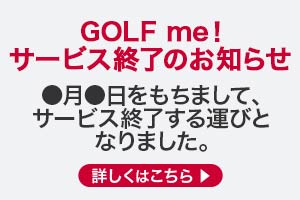
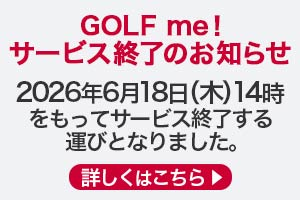
add

Changed region(s): [[0.03, 0.39, 0.96, 0.78], [0.03, 0.06, 0.99, 0.36], [0.21, 0.81, 0.78, 0.96]]

diff --git a/20251212/closeinfo2026/index.html b/20251212/closeinfo2026/index.html
@@ -125,7 +125,7 @@
                      
                     </div></li> 
                      <li><div>
-                         <p class="closeinfo_date">2026年3月4日（水）●時</p>
+                         <p class="closeinfo_date">2026年3月4日（水）14時</p>
                          <p>新規登録及びご契約プランの更新、ドコモの対象料金プラン特典・dカード特典を除くすべてのキャンペーンの受付最終日となります。</p>
                          <p>3月5日（木）以降の途中解約には違約金は発生いたしません。</p>
                  
@@ -142,7 +142,7 @@
                    
                     </div></li>
                      <li><div>
-                         <p class="closeinfo_date">2026年6月18日（木）●時</p>
+                         <p class="closeinfo_date">2026年6月18日（木）14時</p>
                      <p>サービス終了</p>
                      <p>マイページへのログイン機能を停止し、サービスページ・GOLF me！事務局を閉鎖いたします。また、ご登録いただいた個人情報は削除いたします。</p>
                     </div></li>
@@ -177,7 +177,7 @@
                      <div class="closeinfo_member_box_continuation_contents_box" id="closeinfo_member_box_continuation_contents_two">
                          <p class="closeinfo_member_box_continuation_contents_box_title">GOLF me！の継続利用を<span>希望し</span>、<br>2026年<span>3月5日（木）以降</span>に現在のプランが契約期間満了予定の方</p>
                          <div>
-                         <p>2026年3月5日（木）以降は<span>契約の自動更新が行われません</span>。そのため、現在の契約期間満了日以降も契約継続をご希望の方は2026年3月4日（水）までに、会員ページにて早期更新のお手続きをお願いいたします。お手続きは<a href="https://golfme.goo.ne.jp/my_page/user/plan/early_update" target="_blank" rel="noopener nowrapper">こちら</a>よりお願いいたします。</p>
+                         <p>2026年3月5日（木）以降は<span>契約の自動更新が行われません</span>。そのため、現在の契約期間満了日以降も契約継続をご希望の方は2026年3月4日（水）14時までに、会員ページにて早期更新のお手続きをお願いいたします。お手続きは<a href="https://golfme.goo.ne.jp/my_page/user/plan/early_update" target="_blank" rel="noopener nowrapper">こちら</a>よりお願いいたします。</p>
                              <div class="closeinfo2026_caution">
                                  <p>※&nbsp;現在のご契約プランが2026年6月5日（金）以降に契約期間満了となる方で、ラウンド最終日までサービスのご利用をご希望の場合はお手続きの必要はありません。ラウンド最終日をもって契約終了となります。</p>
                              <p>※&nbsp;2026年3月5日（木）以降は契約の自動更新が行われませんので、ラウンド最終日までの間に契約期間が満了となる場合は、満了日をもって契約終了となります。</p>
@@ -232,7 +232,7 @@
 
                     </div>
                      </li><li><div>
-                         <p class="closeinfo_date">2026年3月4日（水）●時</p>
+                         <p class="closeinfo_date">2026年3月4日（水）14時</p>
                          <p>新規ビジター会員受付、メンバー（有料）会員への登録変更受付を停止いたします。</p>
 
                     </div>
@@ -249,7 +249,7 @@
 
                     </div></li>
                      <li><div>
-                         <p class="closeinfo_date">2026年6月18日（木）●時</p>
+                         <p class="closeinfo_date">2026年6月18日（木）14時</p>
                          <p>サービス終了</p>
                          <p>マイページへのログイン機能を停止し、サービスページ・GOLF me！事務局を閉鎖いたします。また、ご登録いただいた個人情報は削除いたします。</p>
                     </div></li>
@@ -503,32 +503,6 @@ document.addEventListener('DOMContentLoaded', function () {
 
 })();
 </script>
-<script>
-(function() {
-
-  function updateStickyOffset() {
-    // ▼ 実際に上部を占有しているバーの高さ
-    const noticeBar = document.querySelector('.close_header_notice_bar');
-    const barHeight = noticeBar?.offsetHeight || 0;
-
-    // ▼ アコーディオン見出しに適用
-    const headers = document.querySelectorAll('.accordion-header');
-    headers.forEach(h => {
-      h.style.top = (barHeight - 1) + 'px';
-    });
-  }
-
-  // ▼ ページ内の全リソース（fetch挿入含む）が終わった後に実行
-  window.addEventListener("load", updateStickyOffset);
-
-  // ▼ リサイズ時にも再調整
-  window.addEventListener("resize", updateStickyOffset);
-
-})();
-</script>
-
-
-
 
 </body>
 </html>

diff --git a/20251212/closeinfo_faq/index.html b/20251212/closeinfo_faq/index.html
@@ -269,10 +269,10 @@
                 </div>
                 </label>
                 <div class="closeinfo_faq_bic_acanswer">
-                  <p>クーポンに記載のある有効期限内にご利用ください。途中解約される場合は、有効期限内のクーポンの残枚数に応じて日割りの月額料金のお支払いにご利用いただけます。また、サービス終了時点までクーポンを保持した場合、自動的に最終請求額に充当されます。
+                  <p>クーポンに記載のある有効期限内にご利用ください。途中解約される場合は、有効期限内のクーポンの残枚数に応じて日割りの月額料金のお支払いにご利用いただけます。また、サービス終了時点までクーポンを保持した場合、自動的に月額料金の最終請求額に充当されます。
 <ul class="question_caution">
 <li>※&nbsp;使用枚数の上限を超えた分のクーポンは破棄されます</li>
-    <li>※&nbsp;日割りの月額料金にご利用いただけるクーポンの枚数は、自動的に使用できる最大枚数で算出されます<br>（例）途中解約手続き時点の日割りの月額料金が2,926円でクーポンが4枚残っていた場合、3枚消費され最終支払額は0円となります</li>
+    <li>※&nbsp;日割りの月額料金にご利用いただけるクーポンの枚数は、自動的に使用できる最大枚数で算出されます<br>（例）途中解約手続き時点の日割りの月額料金が2,926円でクーポンが4枚残っていた場合、3枚消費され最終お支払い額は0円となります</li>
 </ul></p>
                 </div>
               </div>
@@ -355,7 +355,7 @@
                 </div>
                 </label>
                 <div class="closeinfo_faq_bic_acanswer">
-                  <p>サービス終了時点までクーポンを保持した場合、自動的に最終請求額に充当されます。
+                  <p>サービス終了時点までクーポンを保持した場合、自動的に月額料金の最終請求額に充当されます。
 <ul class="question_caution">
 <li>※&nbsp;使用枚数の上限を超えた分のクーポンは破棄されます</li>
 </ul></p>
@@ -369,11 +369,11 @@
                 </div>
                 </label>
                 <div class="closeinfo_faq_bic_acanswer">
-                  <p>途中解約される場合は、有効期限内のクーポンの残枚数に応じて日割りの月額料金のお支払いにご利用いただけます。ただし、クーポンの使用枚数の上限は、日割りの月額料金を超えない金額分までとなります。
+                  <p>有効期限内のクーポンの残枚数に応じて日割りの月額料金のお支払いにご利用いただけます。
 <ul class="question_caution">
 <li>※&nbsp;使用枚数の上限を超えた分のクーポンは破棄されます</li>
 <li>※&nbsp;日割りの月額料金にご利用いただけるクーポンの枚数は、自動的に使用できる最大枚数で算出されます<br>
-（例）途中解約手続き時点の日割りの月額料金が2,926円でクーポンが4枚残っていた場合、3枚消費され最終支払額は0円となります</li>
+（例）途中解約手続き時点の日割りの月額料金が2,926円でクーポンが4枚残っていた場合、3枚消費され最終お支払い額は0円となります</li>
 </ul></p>
                 </div>
               </div>
@@ -432,7 +432,7 @@
                 </div>
                 </label>
                 <div class="closeinfo_faq_bic_acanswer">
-                  <p>KJ確認</p>
+                  <p>サービス終了日の2026年6月18日（木）14時に、ご登録いただいた個人情報は削除いたします。</p>
                 </div>
               </div>
             </div>
@@ -585,7 +585,7 @@
                 </div>
                 </label>
                 <div class="closeinfo_faq_bic_acanswer">
-                  <p>KJ確認</p>
+                  <p>サービス終了日の2026年6月18日（木）に、ご登録いただいた個人情報は削除いたします。</p>
                 </div>
               </div>
             </div>
